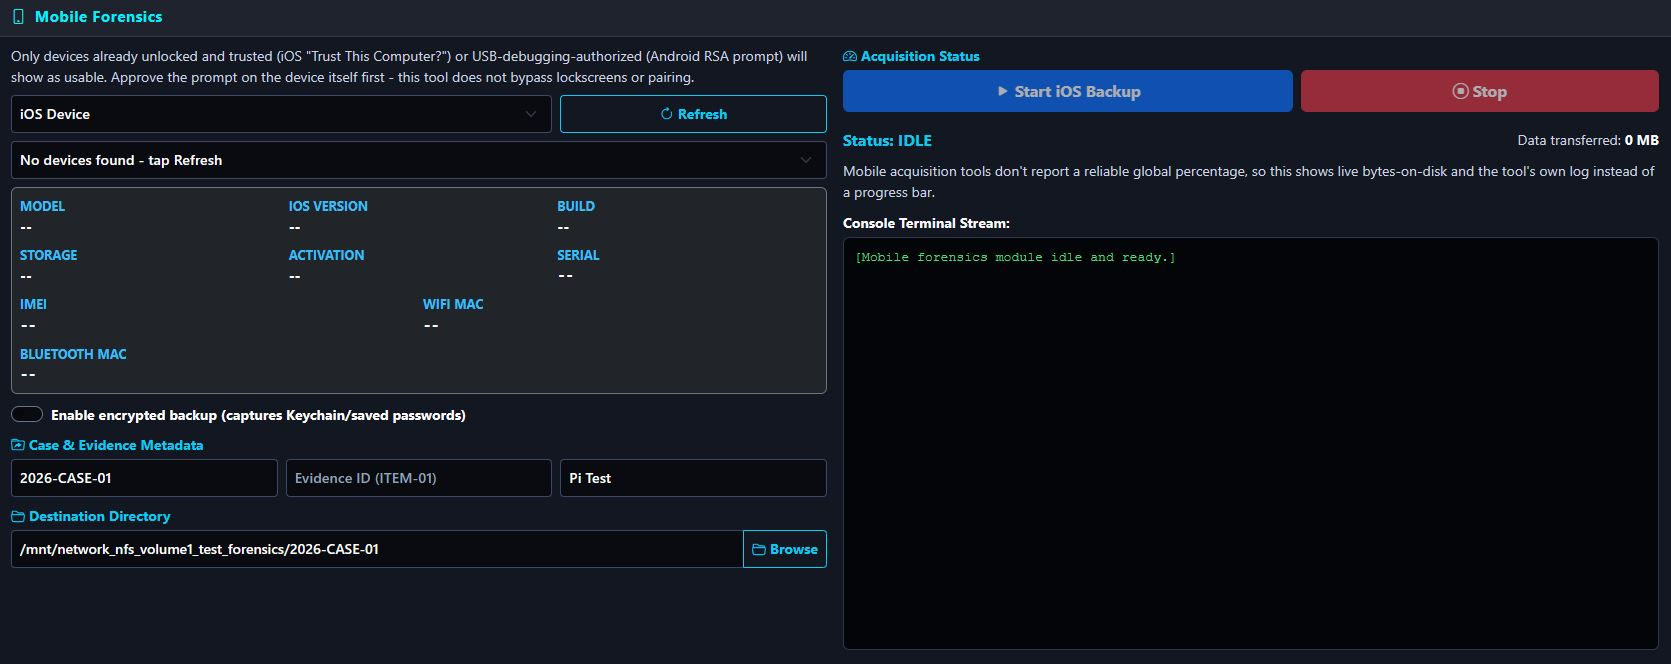
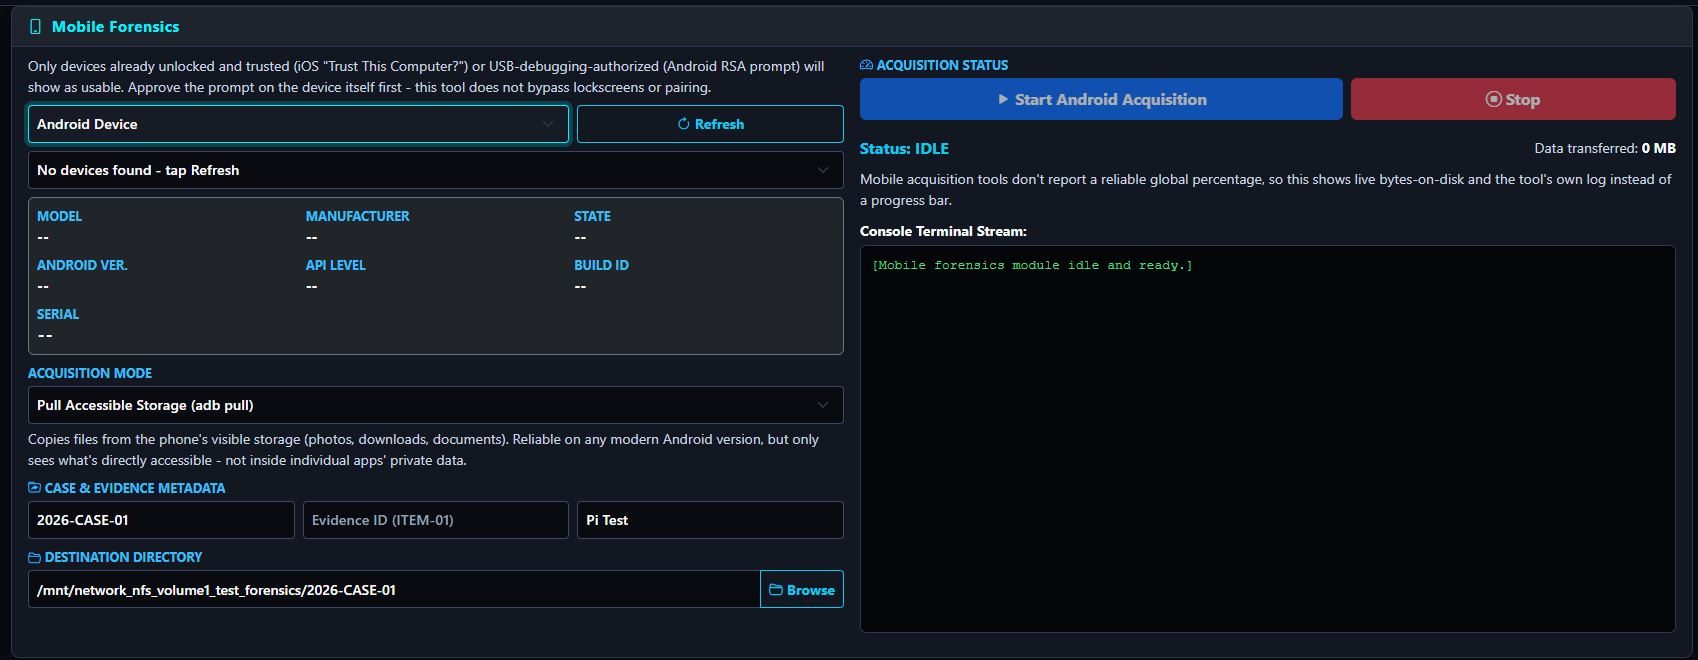
Refresh screenshots to match current UI, fix stale captions
PIF1-5 were already recaptured by the user against the current app
(Home tab, compact Acquisition card with the consolidated Encrypted
Volume panel, Mobile, Recovery, File Explorer with tree grouping) but
kept README/docs/index.html captions from before the reshuffle - fixed
those to match what's actually shown.

PIF6/10/11 still showed the pre-2026-08-21 vertical Settings sidebar,
which was replaced by horizontal top tabs weeks ago; PIF7 showed an
ungrouped file tree. Recaptured all four against the live station:
PIF6 is now the case-wide Overview dashboard (Verify All Evidence,
Case Bundle Export), PIF7 is the geolocation KML preview next to the
current File Views analysis tree, PIF10/11 show the current horizontal
Settings nav (Service Controls & Diagnostics / Security).

Updated README.md's screenshot captions and docs/index.html's "On
Screen" grid (now 10 shots instead of 8, adding a dedicated Acquisition
card and reordering to group all File Explorer shots together) to
match. PIF8/PIF9 (Hex/Metadata) were already accurate and left as-is.

diff --git a/docs/index.html b/docs/index.html
@@ -312,7 +312,7 @@
         <span class="lights"><i></i><i></i><i></i></span>
         <span>PI-FORENSICS-01 &middot; FORENSIC ACQUISITION &middot; LIVE</span>
       </div>
-      <img src="images/PIF1.JPG" alt="Pi Forensics Suite — Forensic Acquisition screen, showing active-case bar, drive telemetry, and format/hash controls">
+      <img src="images/PIF1.JPG" alt="Pi Forensics Suite — Home workspace picker, showing tiles for Forensic Acquisition, Mobile Forensics, File Recovery, File Explorer, Reporting, and Settings">
     </div>
   </div>
 </section>
@@ -415,20 +415,20 @@
     </div>
     <div class="shot-grid">
       <figure class="shot">
+        <img src="images/PIF2.JPG" alt="Forensic Acquisition screen with encrypted-volume and format controls">
+        <figcaption><b>Acquisition</b>Drive telemetry, a consolidated BitLocker/LUKS/VeraCrypt panel, format/hash controls, and live status in one compact card.</figcaption>
+      </figure>
+      <figure class="shot">
         <img src="images/PIF3.JPG" alt="Mobile Forensics screen with device detail panel">
         <figcaption><b>Mobile Forensics</b>One mode selector, one device-detail panel, one console &mdash; iOS and Android acquisition without separate screens per platform.</figcaption>
       </figure>
       <figure class="shot">
-        <img src="images/PIF4.JPG" alt="Forensic File Explorer browsing inside an acquired disk image">
-        <figcaption><b>File Explorer</b>Browsing directly inside an acquired image via the inline Sleuth Kit engine &mdash; no mounting or extraction required.</figcaption>
-      </figure>
-      <figure class="shot">
-        <img src="images/PIF2.JPG" alt="File Recovery screen with PhotoRec selected">
+        <img src="images/PIF4.JPG" alt="File Recovery screen with PhotoRec selected">
         <figcaption><b>File Recovery</b>PhotoRec, extundelete, foremost, scalpel, and TestDisk sharing one source/destination layout and one live terminal.</figcaption>
       </figure>
       <figure class="shot">
-        <img src="images/PIF5.JPG" alt="Reporting screen with Report Narrative open">
-        <figcaption><b>Reporting</b>Case Notes, Report Narrative, Jobs, and Audit Trail &mdash; a real DFIR report structure, not a JSON dump.</figcaption>
+        <img src="images/PIF5.JPG" alt="Forensic File Explorer browsing an acquired case folder with a grouped folder tree">
+        <figcaption><b>File Explorer</b>The tree groups an image's disk files and this app's own generated artifacts out of the way of real evidence &mdash; no mounting required to browse inside an image.</figcaption>
       </figure>
       <figure class="shot">
         <img src="images/PIF8.JPG" alt="File Explorer Hex tab showing an offset/hex/ASCII dump">
@@ -438,6 +438,14 @@
         <img src="images/PIF9.JPG" alt="File Explorer Metadata tab showing filesystem and ExifTool details">
         <figcaption><b>Metadata</b>Size, timestamps, permissions, and MIME type for any file, with ExifTool's embedded metadata layered below.</figcaption>
       </figure>
+      <figure class="shot featured">
+        <img src="images/PIF7.JPG" alt="File Explorer previewing a KML geolocation export as a live map">
+        <figcaption><b>Geolocation Preview</b><p>A KML export rendered inline as a live map, right next to the File Views analysis tree &mdash; no separate GIS tool needed to see where evidence photos were taken.</p></figcaption>
+      </figure>
+      <figure class="shot">
+        <img src="images/PIF6.JPG" alt="Reporting screen with the case-wide Overview dashboard open">
+        <figcaption><b>Reporting</b>A case-wide Overview dashboard, Verify All Evidence, and Case Bundle Export sit alongside Report Narrative, Case Notes, Custody Log, Evidence Timeline, and Audit Trail.</figcaption>
+      </figure>
       <figure class="shot">
         <img src="images/PIF10.JPG" alt="Settings Service Controls and Diagnostics panel">
         <figcaption><b>Service Controls</b>Restart, update, check tool versions, run a fixed diagnostics allowlist, reboot, or power off &mdash; no SSH required.</figcaption>
@@ -445,10 +453,6 @@
       <figure class="shot">
         <img src="images/PIF11.JPG" alt="Settings User Accounts and User Groups panel">
         <figcaption><b>User Groups</b>Real per-examiner accounts with role-based access control &mdash; Admin, an adjustable Analyst default, and custom groups built from any mix of permissions.</figcaption>
-      </figure>
-      <figure class="shot featured">
-        <img src="images/PIF7.JPG" alt="File Explorer previewing a KML geolocation export as a live map">
-        <figcaption><b>Geolocation Preview</b><p>A KML export rendered inline as a live map, right next to the folder tree &mdash; no separate GIS tool needed to see where evidence photos were taken.</p></figcaption>
       </figure>
     </div>
   </div>

diff --git a/README.md b/README.md
@@ -48,7 +48,7 @@ running, see the [User Manual](docs/user-manual.md).
 ---
 
 <p align="center">
-  <img src="docs/images/PIF1.JPG" width="100%" alt="Pi Forensics Suite — Forensic Acquisition screen" />
+  <img src="docs/images/PIF1.JPG" width="100%" alt="Pi Forensics Suite — Home workspace picker" />
 </p>
 
 ---
@@ -171,9 +171,9 @@ flowchart TD
 ## Screenshots
 
 <p align="center">
-  <img src="docs/images/PIF2.JPG" width="100%" alt="File Recovery Tools" />
+  <img src="docs/images/PIF2.JPG" width="100%" alt="Forensic Acquisition" />
   <br>
-  <em>File Recovery — one unified tool selector (PhotoRec shown here, alongside extundelete, foremost, scalpel, TestDisk analysis, and the ddrescue Mapfile Inspector) in a left/right split: source/destination/case fields on the left, live status and terminal output on the right.</em>
+  <em>Forensic Acquisition — target drive telemetry, a consolidated Encrypted Volume panel (BitLocker/LUKS/VeraCrypt in one dropdown instead of three separate blocks), format/hash controls, and live status/terminal output, all in one compact card.</em>
 </p>
 
 <p align="center">
@@ -183,27 +183,15 @@ flowchart TD
 </p>
 
 <p align="center">
-  <img src="docs/images/PIF4.JPG" width="100%" alt="Forensic File Explorer" />
+  <img src="docs/images/PIF4.JPG" width="100%" alt="File Recovery Tools" />
   <br>
-  <em>Forensic File Explorer browsing directly inside an acquired image via the inline Sleuth Kit Image Browser (pytsk3) — no mounting or extraction needed to list files, preview one, or pull it out to the case folder.</em>
+  <em>File Recovery — one unified tool selector (PhotoRec shown here, alongside extundelete, foremost, scalpel, TestDisk analysis, and the ddrescue Mapfile Inspector) sharing one source/destination/case layout and one live terminal instead of a screen per tool.</em>
 </p>
 
 <p align="center">
-  <img src="docs/images/PIF5.JPG" width="100%" alt="Reporting" />
+  <img src="docs/images/PIF5.JPG" width="100%" alt="Forensic File Explorer" />
   <br>
-  <em>Reporting — the left-nav case workspace (Report Narrative, Case Notes, Files, Jobs, Audit Trail, Search, Export, Raw JSON), shown here on Report Narrative with station-configured Case Details fields and the DFIR-style Executive Summary/Objectives/Findings/Limitations/Conclusion narrative.</em>
-</p>
-
-<p align="center">
-  <img src="docs/images/PIF6.JPG" width="100%" alt="Settings" />
-  <br>
-  <em>Settings — one of five left-nav categories, shown here on Case & Reporting: per-station report export defaults, report branding (header text and logo), and custom case fields that appear on every case's Case Information block.</em>
-</p>
-
-<p align="center">
-  <img src="docs/images/PIF7.JPG" width="100%" alt="File Explorer Geolocation Preview" />
-  <br>
-  <em>File Explorer — a KML geolocation export previewed inline as a live map (no separate GIS tool needed to see where evidence photos were taken), alongside the Listing table's Accessed/Changed/Created timestamp columns.</em>
+  <em>Forensic File Explorer — the folder tree groups an acquired image's disk images and this app's own case-generated artifacts (reports, hash logs, KML exports) out of the way of real evidence, and the Listing table now shows Modified/Accessed/Changed/Created for every file.</em>
 </p>
 
 <p align="center">
@@ -216,6 +204,18 @@ flowchart TD
   <img src="docs/images/PIF9.JPG" width="100%" alt="File Explorer Metadata" />
   <br>
   <em>File Explorer's Metadata tab — real filesystem facts (size, extension, MIME type, timestamps, permissions, owner/group) for any file or folder, with ExifTool's embedded metadata layered below for files.</em>
+</p>
+
+<p align="center">
+  <img src="docs/images/PIF7.JPG" width="100%" alt="File Explorer Geolocation Preview" />
+  <br>
+  <em>File Explorer — a KML geolocation export previewed inline as a live map (no separate GIS tool needed to see where evidence photos were taken), with the File Views analysis tree (tags, keyword hits, parsed browser artifacts) alongside it.</em>
+</p>
+
+<p align="center">
+  <img src="docs/images/PIF6.JPG" width="100%" alt="Reporting" />
+  <br>
+  <em>Reporting — the case-wide Overview dashboard (Evidence Items, Tagged Items, Analysis Activity, Case Notes, Exhibits, Case Age at a glance), with Verify All Evidence and Case Bundle Export alongside the full tab set: Report Narrative, Case Notes, Custody Log, Files & Artifacts, Geolocation, Jobs, Evidence Timeline, Audit Trail, Search, and Export.</em>
 </p>
 
 <p align="center">
